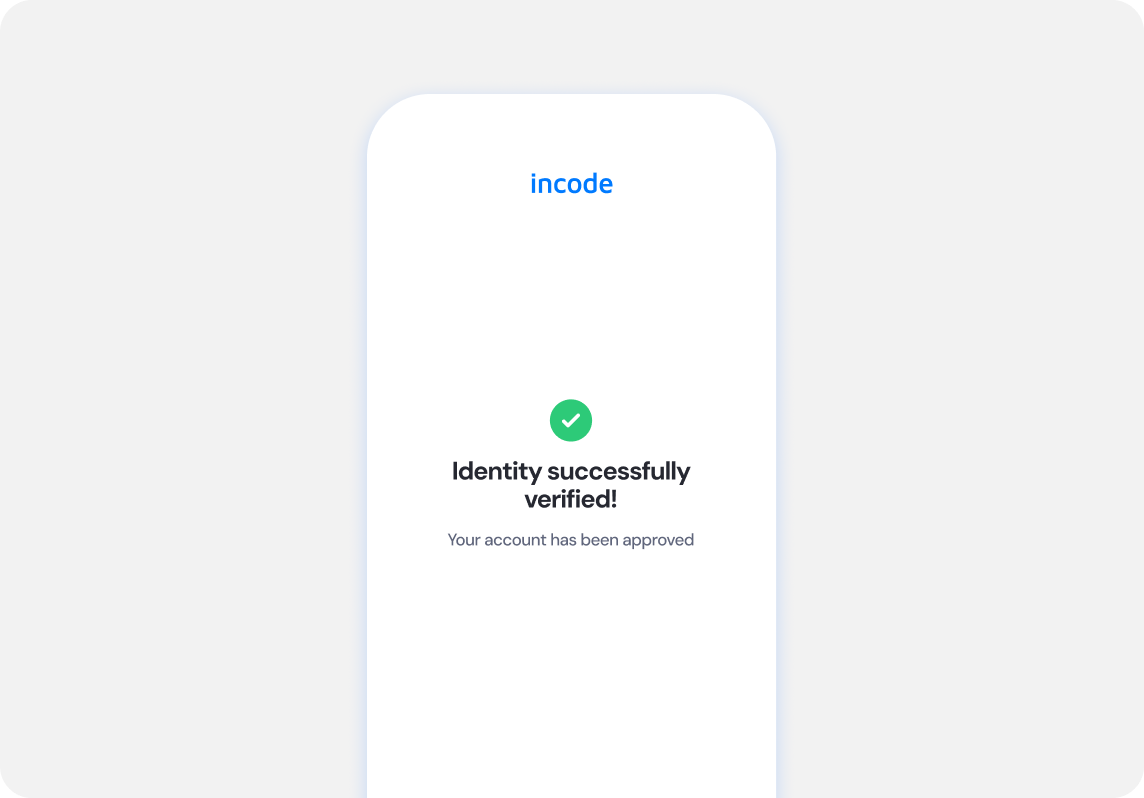
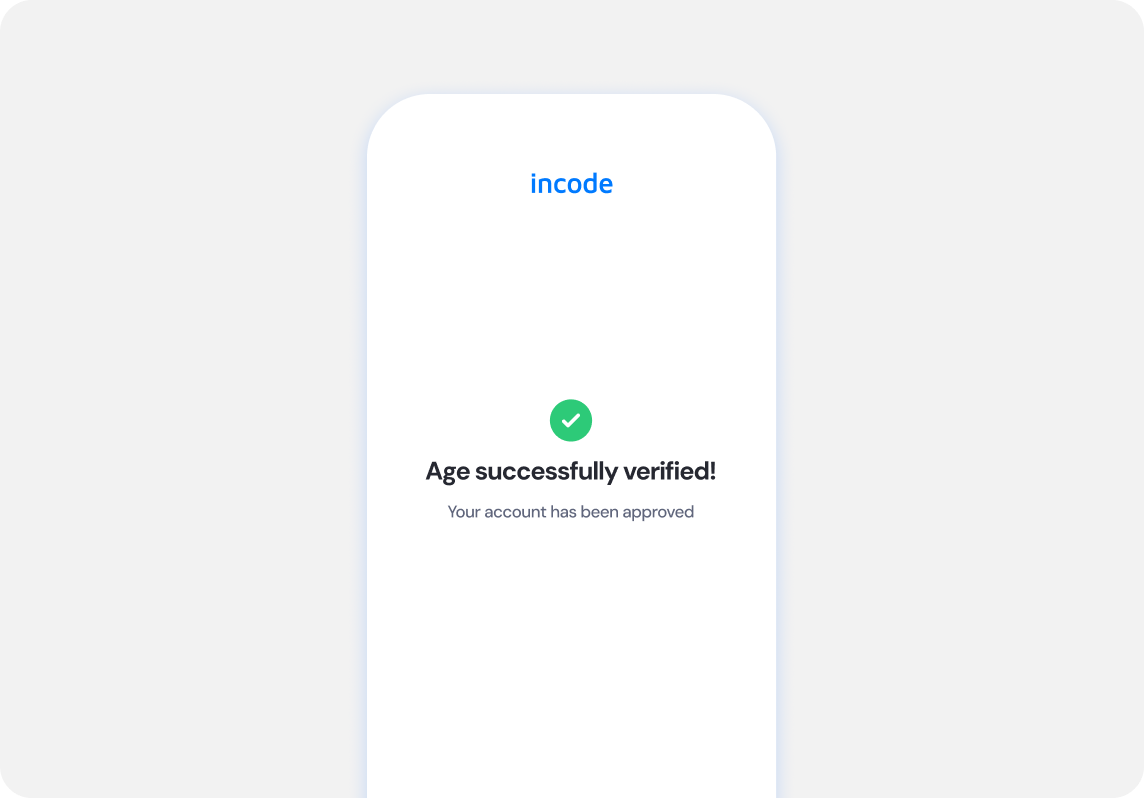
Update face age estimation landing page copy and design
- Change hero eyebrow from "Age Verification" to "Face Age Estimation"
- Update step 3 and 4 body copy for clarity
- Rework fallback section into two clearer paragraphs
- Remove trailing periods from all section headings
- Replace step-4 illustration with updated "Age successfully verified" PNG
- Align typography and spacing with GovFaceMatch design system

Changed region(s): [[0.3671, 0.5714, 0.6425, 0.6917]]

diff --git a/src/app/age-verification/face-age-estimation/page.tsx b/src/app/age-verification/face-age-estimation/page.tsx
@@ -57,14 +57,14 @@ const STEPS: ExplainerStep[] = [
     icon: <DsIcon src="/icons/mobile.svg" className="h-3.5 w-3.5 bg-current" />,
     title: "Age is estimated on your phone",
     subtitle: "Nothing is uploaded — your device does the work.",
-    body: "The estimation happens entirely on your phone. Nothing is uploaded or sent anywhere — your device does all the work and the result is instant.",
+    body: "The estimation happens entirely on your phone. No face template is uploaded or sent anywhere; your device does all the work and the result is instant.",
     image: "/Illustration/step-3-age-estimated.png",
   },
   {
     icon: <DsIcon src="/icons/check.svg" className="h-3.5 w-3.5 bg-current" />,
     title: "Access is confirmed",
     subtitle: "A yes/no result against the age threshold — never your actual age.",
-    body: "If you meet the required age threshold, access is granted. Importantly, your actual estimated age is never shared — the system only returns a yes or no against the age threshold. No one learns how old you appear to be, only that you qualify.",
+    body: "If you meet the required age threshold, access is granted. Importantly, your actual estimated age is never shared, the system only returns a yes or no against the age threshold. No one learns how old you appear to be, only that you qualify.",
     image: "/Illustration/step-4-access-confirmed.png",
   },
 ];
@@ -175,11 +175,11 @@ function Hero() {
         <div className="grid gap-12 lg:grid-cols-[1.1fr_1fr] lg:gap-16 lg:items-center">
           <div>
             <Reveal>
-              <Eyebrow>Age Verification</Eyebrow>
+              <Eyebrow>Face Age Estimation</Eyebrow>
             </Reveal>
             <Reveal delay={0.1}>
               <PageHeading tone="dark" className="mt-6">
-                Your face never leaves your device.
+                Your face never leaves your device
               </PageHeading>
             </Reveal>
             <Reveal delay={0.2}>
@@ -218,8 +218,8 @@ function Promises() {
         <Eyebrow tone="light">What it means for you</Eyebrow>
       </Reveal>
       <Reveal delay={0.1}>
-        <h2 className="mt-5 font-display text-3xl leading-tight text-balance text-black sm:text-4xl">
-          Privacy is the architecture, not a setting.
+        <h2 className="mt-5 font-display text-3xl md:text-4xl text-balance">
+          Privacy is the architecture, not a setting
         </h2>
       </Reveal>
       <div className="mt-12 grid gap-5 md:grid-cols-2">
@@ -232,7 +232,7 @@ function Promises() {
               <h3 className="font-display text-xl leading-tight text-black md:text-2xl">
                 {p.title}
               </h3>
-              <p className="text-[13px] leading-relaxed text-grey-on-white">
+              <p className="text-sm leading-relaxed text-grey-on-white">
                 {p.body}
               </p>
             </div>
@@ -255,12 +255,12 @@ function HowItWorks() {
           <Eyebrow>How it works</Eyebrow>
         </Reveal>
         <Reveal delay={0.1}>
-          <h2 className="mt-5 font-display text-3xl leading-tight text-balance text-white sm:text-4xl md:text-[44px]">
-            Four steps. Seconds long. Nothing leaves your phone.
+          <h2 className="mt-5 font-display text-3xl md:text-4xl text-balance">
+            Four steps. Seconds long. Nothing leaves your phone
           </h2>
         </Reveal>
         <Reveal delay={0.2}>
-          <p className="mt-6 max-w-xl text-[15px] leading-relaxed text-white/70 sm:text-base">
+          <p className="mt-6 max-w-xl text-grey-on-black">
             From the moment you start the check to the moment access is
             granted, your face is processed entirely on your device. No
             uploads, no servers, no exceptions.
@@ -286,23 +286,25 @@ function Fallback() {
             <Eyebrow tone="light">If the check isn&apos;t conclusive</Eyebrow>
           </Reveal>
           <Reveal delay={0.1}>
-            <h2 className="mt-5 font-display text-3xl leading-tight text-balance text-black sm:text-4xl">
-              In some cases, additional verification may be needed.
+            <h2 className="mt-5 font-display text-3xl md:text-4xl text-balance">
+              In some cases, additional verification may be needed
             </h2>
           </Reveal>
         </div>
         <Reveal delay={0.2}>
           <div className="rounded-2xl border border-border-light bg-background p-7">
-            <p className="text-[14px] leading-relaxed text-grey-on-white">
+            <p className="text-sm leading-relaxed text-grey-on-white">
               If the age estimation is not conclusive, you may be asked to
               complete an additional verification step using a government-issued
-              ID. The system verifies your date of birth and compares the ID
-              photo to your selfie to confirm the document belongs to you.
+              ID.
             </p>
-            <p className="mt-4 text-[14px] leading-relaxed text-grey-on-white">
-              The process is fully automated, with no human review involved, and
-              is designed to minimize unnecessary exposure or retention of
-              personal data. All images and information are deleted immediately.
+            <p className="mt-4 text-sm leading-relaxed text-grey-on-white">
+              In that case, the system verifies your date of birth and compares
+              the ID photo to your selfie to confirm the document belongs to
+              you. The process is fully automated, with no human review
+              involved, and is designed to minimize unnecessary exposure or
+              retention of personal data. All images and information are deleted
+              immediately.
             </p>
           </div>
         </Reveal>
@@ -318,8 +320,8 @@ function Questions() {
         <Eyebrow tone="light">FAQ</Eyebrow>
       </Reveal>
       <Reveal delay={0.1}>
-        <h2 className="mt-5 font-display text-3xl leading-tight text-balance text-black sm:text-4xl">
-          Your questions, answered.
+        <h2 className="mt-5 font-display text-3xl md:text-4xl text-balance">
+          Your questions, answered
         </h2>
       </Reveal>
       <div className="mt-12 space-y-3">
@@ -327,14 +329,14 @@ function Questions() {
           <Reveal key={item.q} delay={0.04 * i}>
             <details className="group rounded-2xl border border-border-light bg-[#FCFCFC] open:shadow-[0_12px_28px_-22px_rgba(10,15,30,0.18)] transition-all">
               <summary className="flex cursor-pointer items-start justify-between gap-4 p-6 list-none">
-                <span className="font-display text-[17px] font-medium text-black md:text-lg">
+                <span className="font-display text-base md:text-lg">
                   {item.q}
                 </span>
                 <span className="mt-1 inline-flex h-7 w-7 shrink-0 items-center justify-center rounded-full border border-border-light bg-white text-black/60 transition-transform duration-200 group-open:rotate-45">
                   +
                 </span>
               </summary>
-              <div className="px-6 pb-6 text-[14px] leading-relaxed text-grey-on-white">
+              <div className="px-6 pb-6 text-sm leading-relaxed text-grey-on-white">
                 {item.a}
               </div>
             </details>
@@ -355,7 +357,7 @@ function Outro() {
         <Reveal delay={0.1}>
           <PageHeading as="h2" tone="dark" className="mt-6">
             Age estimation powered by Incode. Privacy-preserving by
-            architecture — not by policy.
+            architecture — not by policy
           </PageHeading>
         </Reveal>
         <Reveal delay={0.2}>